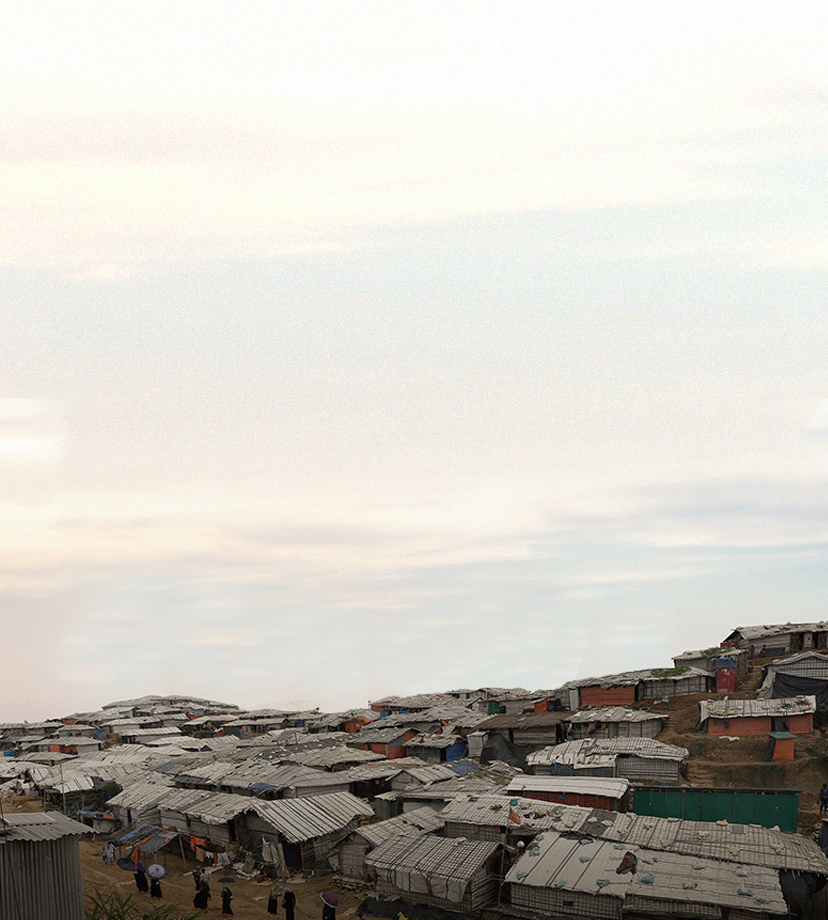
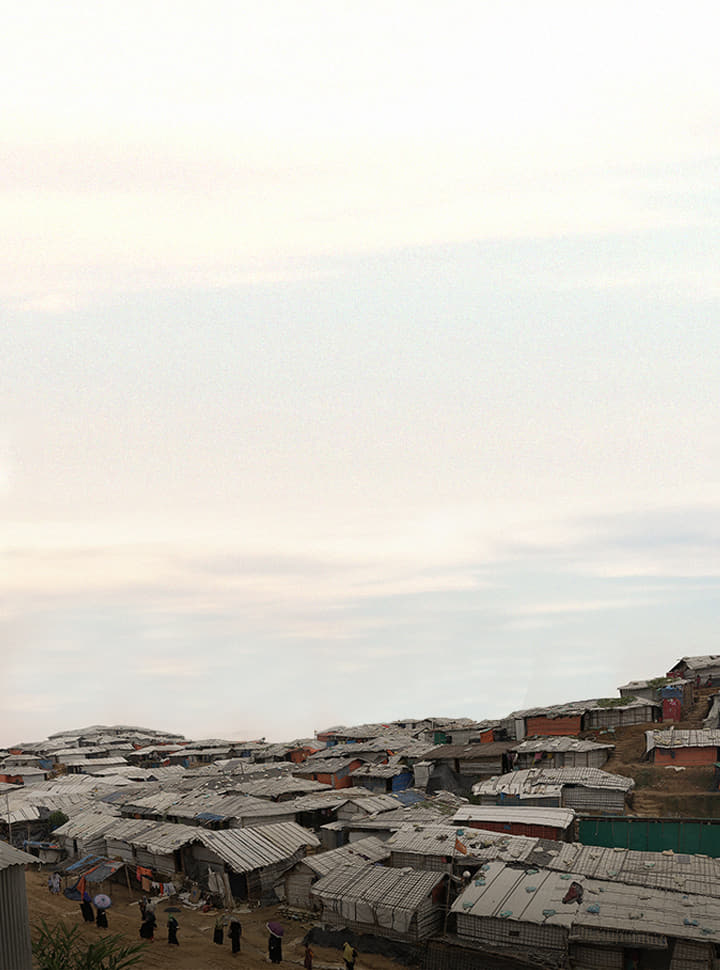
모바일 이미지 교체 / 슬라이더 인디케이터 위치 조정

Changed region(s): [[0.0, 0.6696, 1.0, 1.0]]

diff --git a/0905/css/responsive.css b/0905/css/responsive.css
@@ -136,11 +136,11 @@
 	.tc03 p.origin{font-size:12px;line-height:1.2;color:#fff;margin-top:30px}
 
 	.tc04{position:relative;overflow:visible}
-	.tc04:after{content:"";display:block;width:312px;height:812px;background:url(../images/m/line.png) no-repeat 0 0;background-size:cover;position:absolute;top:-120px;left:50%;margin-left:-167px;z-index:20}
+	.tc04:after{content:"";display:block;width:332px;height:760px;background:url(../images/m/line.png) no-repeat 0 0;background-size:cover;position:absolute;top:-57px;left:50%;margin-left:-152px;z-index:20}
 	.tc04 .leftA{float:none;width:290px;height:330px;background:url(../images/card_bg_sec08_01.jpg) no-repeat center 0;background-size:cover;border-radius:20px;position:relative;overflow:hidden;margin:0 auto 15px}
-	.tc04 .leftA img{position:absolute;bottom:0;left:40px;z-index:1;width:82%}
+	.tc04 .leftA img{position:absolute;bottom:0;left:44px;z-index:1;width:82%}
 	.tc04 .rightA{float:none;width:290px;height:330px;background:url(../images/card_bg_sec08_02.jpg) no-repeat center 0;background-size:cover;border-radius:20px;position:relative;overflow:hidden;margin:0 auto}
-	.tc04 .rightA img{position:absolute;bottom:0;left:0;z-index:1;width:97%}
+	.tc04 .rightA img{position:absolute;bottom:0;left:0;z-index:1;width:101%}
 
 	.tc05{overflow:hidden;background-color:#3a2726;padding:47px 0 50px}
 	.tc05 .leftA{float:none;width:auto;text-align:center}
@@ -173,7 +173,7 @@
 	#sec4 .tc03 dl dd p b{color:#ffcc00;font-weight:normal}
 
 	#sec5{position:relative}
-	#sec5 .controls{bottom:15px;left:0;width:100%}
+	#sec5 .controls{bottom:15px;left:0;width:100%;margin-left:0}
 	#sec5 .controls .slick-arrow{display:none !important}
 	#sec5 .controls .indicator {
 		display: block;
@@ -238,7 +238,7 @@
 
 	#sec8{position:relative;overflow:hidden;box-sizing:border-box}
 	#sec8 .inner{height:100%}
-	#sec8 .tc03{text-align:center;margin-bottom:50px;padding-top:60px}
+	#sec8 .tc03{text-align:center;margin-bottom:40px;padding-top:60px}
 	#sec8 .tc03 dl dt{font-size:27px;color:#5c2f0d}
 	#sec8 .tc03 dl dt b{font-weight:normal;color:#ff6c00;border-bottom:4px solid}
 	#sec8 .tc03 dl dd p{color:#453f3a}

diff --git a/0905/css/nice.css b/0905/css/nice.css
@@ -615,6 +615,7 @@ section .mobile{display:none}
   position: absolute;
   bottom: 6.25rem;
   left: 50%;
+  margin-left:-3.125rem;
   text-align: center;
   z-index: 5
 }
